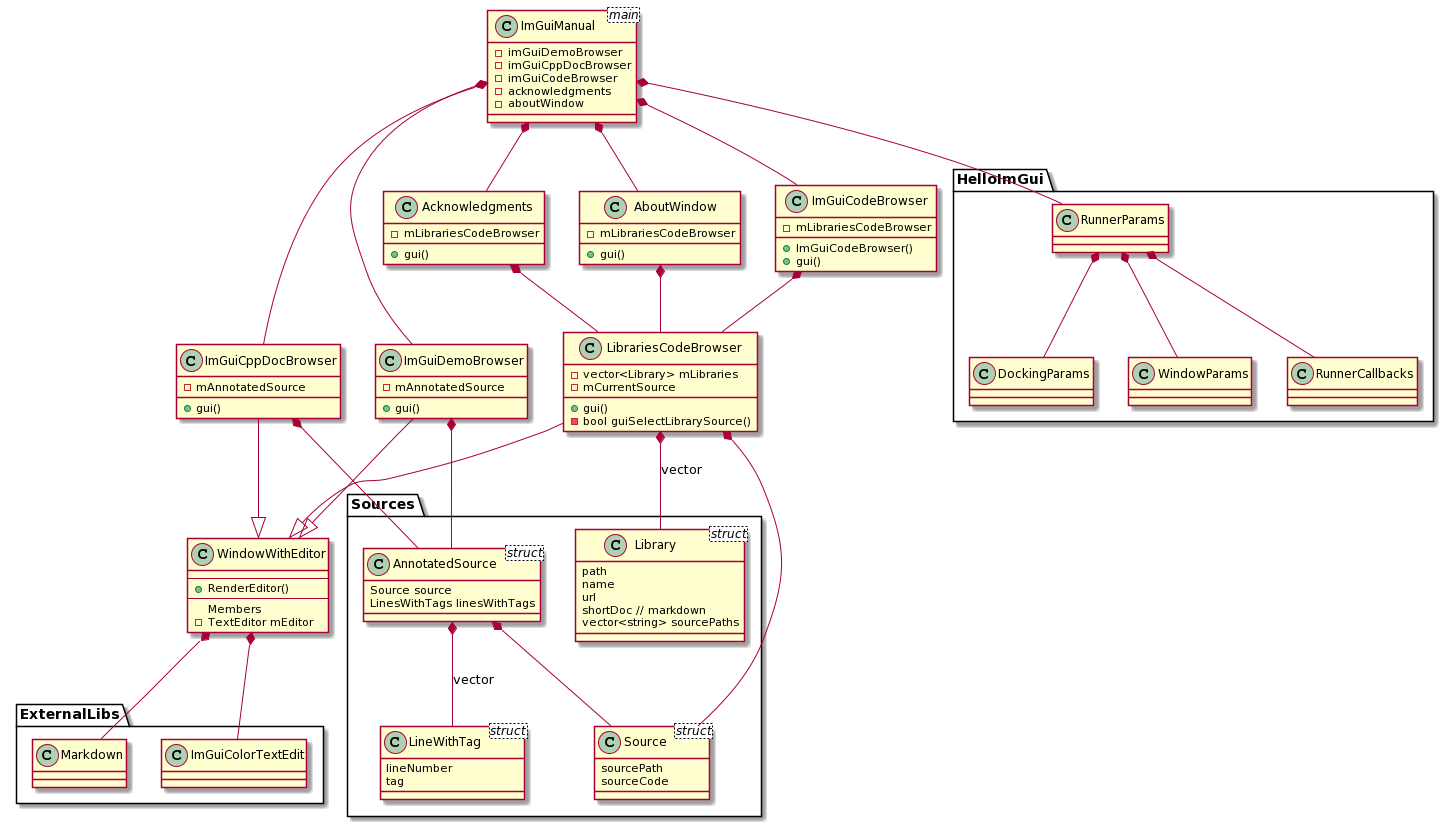
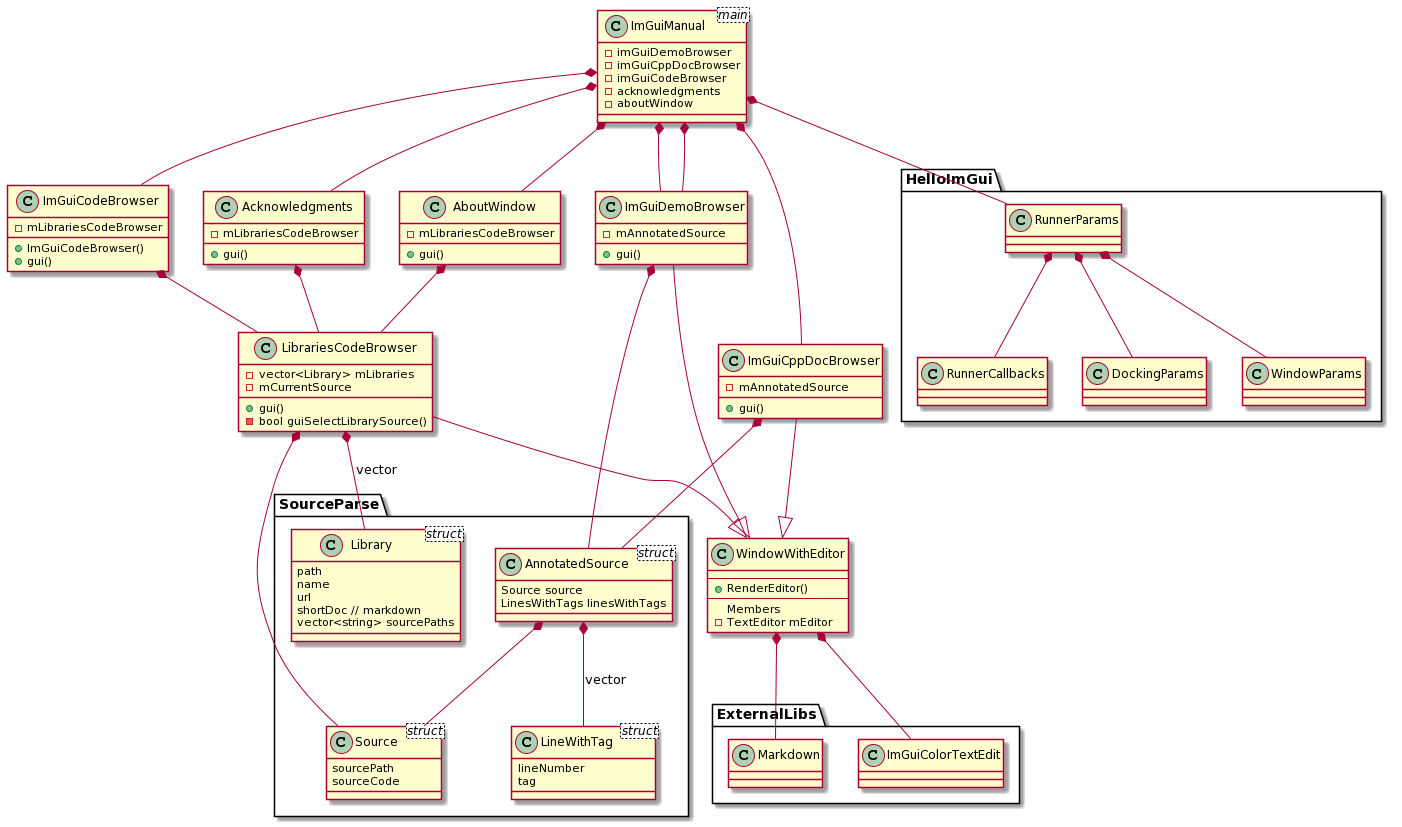
Rename namespace Sources to SourceParse

diff --git a/src/ImGuiHeaderDocBrowser.cpp b/src/ImGuiHeaderDocBrowser.cpp
@@ -1,16 +1,15 @@
-#include "sources/ImGuiRepoUrl.h"
+#include "source_parse/ImGuiRepoUrl.h"
 
 #include "utilities/ImGuiExt.h"
 #include "utilities/HyperlinkHelper.h"
-#include "sources/ImGuiHeaderDocParser.h"
-#include "sources/Sources.h"
-#include <fplus/fplus.hpp>
+#include "source_parse/ImGuiHeaderDocParser.h"
+#include "source_parse/Sources.h"
 
 #include "ImGuiHeaderDocBrowser.h"
 
 ImGuiHeaderDocBrowser::ImGuiHeaderDocBrowser()
     : WindowWithEditor()
-    , mAnnotatedSource(Sources::ReadImGuiHeaderDoc())
+    , mAnnotatedSource(SourceParse::ReadImGuiHeaderDoc())
 {
     setEditorAnnotatedSource(mAnnotatedSource);
 }
@@ -33,7 +32,7 @@ void ImGuiHeaderDocBrowser::guiTags()
 //        }
 //    }
     int currentEditorLineNumber = mEditor.GetCursorPosition().mLine;
-    int selectedLine = Sources::guiLinesWithTags(mAnnotatedSource.linesWithTags, currentEditorLineNumber);
+    int selectedLine = SourceParse::guiLinesWithTags(mAnnotatedSource.linesWithTags, currentEditorLineNumber);
     if (selectedLine >= 0)
         mEditor.SetCursorPosition({selectedLine, 0}, 3);
 }

diff --git a/src/LibrariesCodeBrowser.cpp b/src/LibrariesCodeBrowser.cpp
@@ -12,13 +12,13 @@ void DrawImage_FixedWith(const HelloImGui::ImageGlPtr& image, float width)
 }
 
 LibrariesCodeBrowser::LibrariesCodeBrowser(
-    const std::vector<Sources::Library> &librarySources,
+    const std::vector<SourceParse::Library> &librarySources,
     std::string currentSourcePath)
         : WindowWithEditor()
         , mLibraries(librarySources)
 {
     if (!currentSourcePath.empty())
-        mCurrentSource = Sources::ReadSource(currentSourcePath);
+        mCurrentSource = SourceParse::ReadSource(currentSourcePath);
     mEditor.SetText(mCurrentSource.sourceCode);
 }
 
@@ -62,7 +62,7 @@ bool LibrariesCodeBrowser::guiSelectLibrarySource()
                 ImGui::TextDisabled("%s", source.c_str());
             else if (ImGui::Button(buttonLabel.c_str()))
             {
-                mCurrentSource = Sources::ReadSource(currentSourcePath);
+                mCurrentSource = SourceParse::ReadSource(currentSourcePath);
                 changed = true;
             }
             ImGuiExt::SameLine_IfPossible(150.f);

diff --git a/src/LibrariesCodeBrowser.h b/src/LibrariesCodeBrowser.h
@@ -1,5 +1,5 @@
 #pragma once
-#include "sources/Sources.h"
+#include "source_parse/Sources.h"
 #include "WindowWithEditor.h"
 #include "hello_imgui/hello_imgui.h"
 #include <unordered_map>
@@ -9,14 +9,14 @@ class LibrariesCodeBrowser: public WindowWithEditor
 {
 public:
     LibrariesCodeBrowser(
-        const std::vector<Sources::Library>& librarySources,
+        const std::vector<SourceParse::Library>& librarySources,
         std::string currentSourcePath
     );
     void gui();
 private:
     bool guiSelectLibrarySource();
 
-    std::vector<Sources::Library> mLibraries;
+    std::vector<SourceParse::Library> mLibraries;
     std::unordered_map<std::string, HelloImGui::ImageGlPtr> mTextureCache;
-    Sources::Source mCurrentSource;
+    SourceParse::Source mCurrentSource;
 };

diff --git a/src/source_parse/Sources.cpp b/src/source_parse/Sources.cpp
@@ -14,7 +14,7 @@ namespace {
     };
 }
 
-namespace Sources
+namespace SourceParse
 {
 
 
@@ -115,7 +115,7 @@ std::vector<Library> imguiManualLibrary()
                 ImGuiManual.cpp
                 diagram.png
                 diagram.md
-                sources/Sources.h
+                source_parse/Sources.h
                 ImGuiDemoBrowser.h
                 ImGuiDemoBrowser.cpp
             )")
@@ -292,4 +292,4 @@ int guiLinesWithTags(const LinesWithTags & linesWithTags, int currentEditorLineN
     return clickedLineNumber;
 }
 
-} // namespace Sources
+} // namespace SourceParse

diff --git a/src/ImGuiReadmeBrowser.h b/src/ImGuiReadmeBrowser.h
@@ -1,16 +1,16 @@
 #pragma once
-#include "sources/Sources.h"
+#include "source_parse/Sources.h"
 #include "utilities/MarkdownHelper.h"
 
 // This windows shows ImGui's Readme.md
 class ImGuiReadmeBrowser
 {
 public:
-    ImGuiReadmeBrowser() : mSource(Sources::ReadSource("imgui/README.md")) {}
+    ImGuiReadmeBrowser() : mSource(SourceParse::ReadSource("imgui/README.md")) {}
     inline void gui()
     {
         MarkdownHelper::Markdown(mSource.sourceCode);
     }
 private:
-    Sources::Source mSource;
+    SourceParse::Source mSource;
 };

diff --git a/src/WindowWithEditor.h b/src/WindowWithEditor.h
@@ -1,5 +1,5 @@
 #pragma once
-#include "sources/Sources.h"
+#include "source_parse/Sources.h"
 #include "TextEditor.h"
 #include "imgui.h"
 
@@ -11,7 +11,7 @@ class WindowWithEditor
 public:
     WindowWithEditor();
 
-    void setEditorAnnotatedSource(const Sources::AnnotatedSource &annotatedSource);
+    void setEditorAnnotatedSource(const SourceParse::AnnotatedSource &annotatedSource);
     void RenderEditor(const std::string& filename, VoidFunction additionalGui = {});
 
     TextEditor * _GetTextEditorPtr() { return &mEditor; }

diff --git a/src/ImGuiDemoBrowser.cpp b/src/ImGuiDemoBrowser.cpp
@@ -1,4 +1,4 @@
-#include "sources/ImGuiRepoUrl.h"
+#include "source_parse/ImGuiRepoUrl.h"
 
 #include "utilities/HyperlinkHelper.h"
 #include "utilities/ImGuiExt.h"
@@ -23,7 +23,7 @@ void implImGuiDemoCallbackDemoCallback(int line_number)
 
 ImGuiDemoBrowser::ImGuiDemoBrowser()
     : WindowWithEditor()
-    , mAnnotatedSource(Sources::ReadImGuiDemoCode())
+    , mAnnotatedSource(SourceParse::ReadImGuiDemoCode())
 {
     setEditorAnnotatedSource(mAnnotatedSource);
 

diff --git a/src/ImGuiCppDocBrowser.cpp b/src/ImGuiCppDocBrowser.cpp
@@ -1,15 +1,13 @@
-#include "sources/ImGuiRepoUrl.h"
+#include "source_parse/ImGuiRepoUrl.h"
 
 #include "utilities/ImGuiExt.h"
 #include "utilities/HyperlinkHelper.h"
-
-#include <fplus/fplus.hpp>
 
 #include "ImGuiCppDocBrowser.h"
 
 ImGuiCppDocBrowser::ImGuiCppDocBrowser()
     : WindowWithEditor()
-    , mAnnotatedSource(Sources::ReadImGuiCppDoc())
+    , mAnnotatedSource(SourceParse::ReadImGuiCppDoc())
 {
     setEditorAnnotatedSource(mAnnotatedSource);
 }

diff --git a/src/ImGuiDemoBrowser.h b/src/ImGuiDemoBrowser.h
@@ -1,6 +1,6 @@
 #pragma once
 #include "WindowWithEditor.h"
-#include "sources/Sources.h"
+#include "source_parse/Sources.h"
 
 // This is the window that shows imgui_demo.cpp code,
 // with a callback that will point to the correct line number
@@ -17,5 +17,5 @@ private:
     void guiGithubButton();
     void guiDemoCodeTags();
 
-    Sources::AnnotatedSource mAnnotatedSource;
+    SourceParse::AnnotatedSource mAnnotatedSource;
 };

diff --git a/src/AboutWindow.cpp b/src/AboutWindow.cpp
@@ -1,10 +1,10 @@
 #include "hello_imgui/hello_imgui.h"
 #include "utilities/MarkdownHelper.h"
-#include "sources/Sources.h"
+#include "source_parse/Sources.h"
 #include "AboutWindow.h"
 
 AboutWindow::AboutWindow()
-    : mLibrariesCodeBrowser(Sources::imguiManualLibrary(), "imgui_manual/ImGuiManual.cpp")
+    : mLibrariesCodeBrowser(SourceParse::imguiManualLibrary(), "imgui_manual/ImGuiManual.cpp")
 {
 }
 

diff --git a/src/WindowWithEditor.cpp b/src/WindowWithEditor.cpp
@@ -13,7 +13,7 @@ WindowWithEditor::WindowWithEditor()
     gAllEditors.push_back(&mEditor);
 }
 
-void WindowWithEditor::setEditorAnnotatedSource(const Sources::AnnotatedSource &annotatedSource)
+void WindowWithEditor::setEditorAnnotatedSource(const SourceParse::AnnotatedSource &annotatedSource)
 {
     mEditor.SetText(annotatedSource.source.sourceCode);
     std::unordered_set<int> lineNumbers;

diff --git a/src/ImGuiCppDocBrowser.h b/src/ImGuiCppDocBrowser.h
@@ -1,5 +1,5 @@
 #pragma once
-#include "sources/Sources.h"
+#include "source_parse/Sources.h"
 #include "WindowWithEditor.h"
 
 // This windows shows the docs contained in imgui.cpp
@@ -13,5 +13,5 @@ private:
     void guiTags();
     void guiGithubButton();
 
-    Sources::AnnotatedSource mAnnotatedSource;
+    SourceParse::AnnotatedSource mAnnotatedSource;
 };
